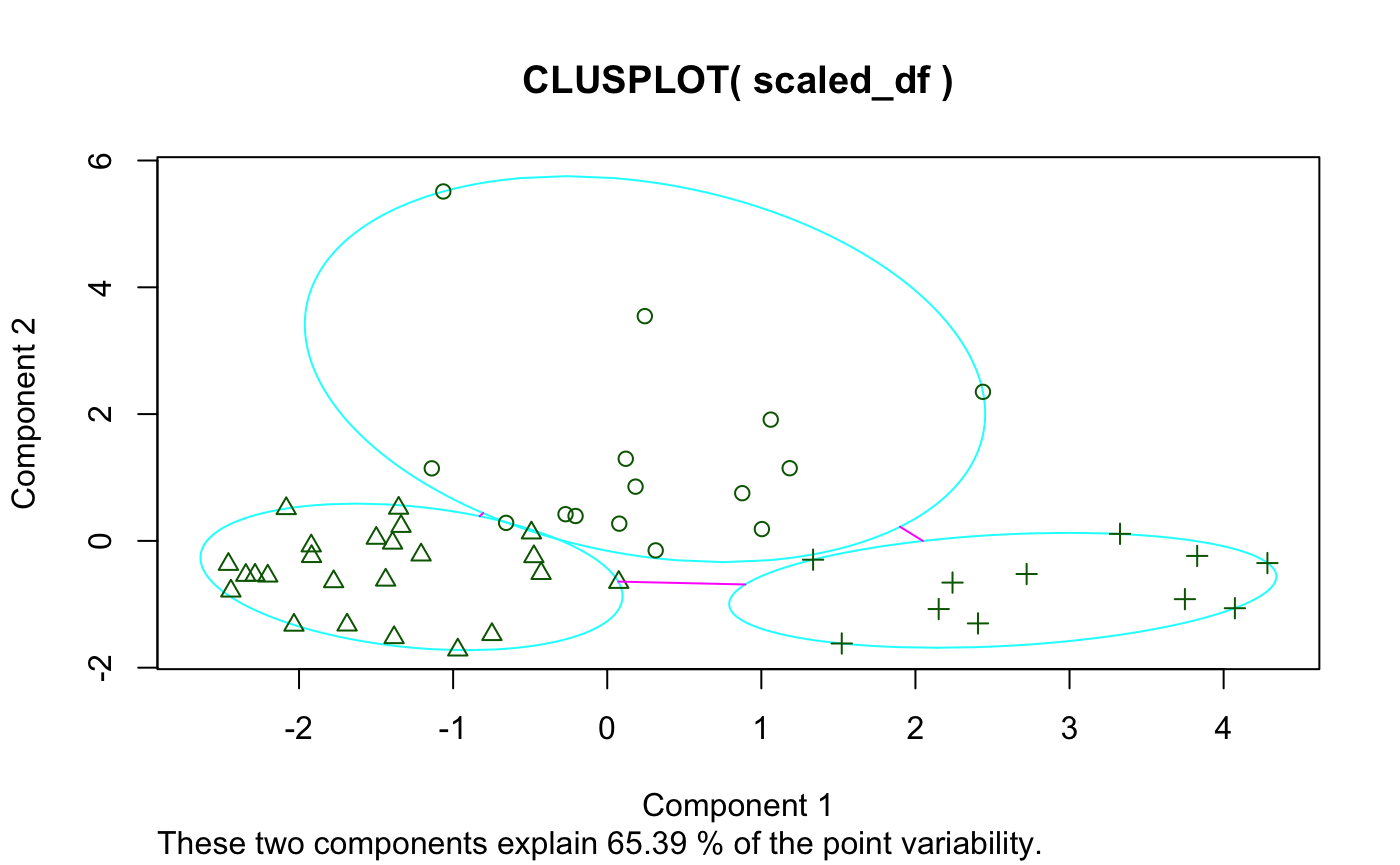
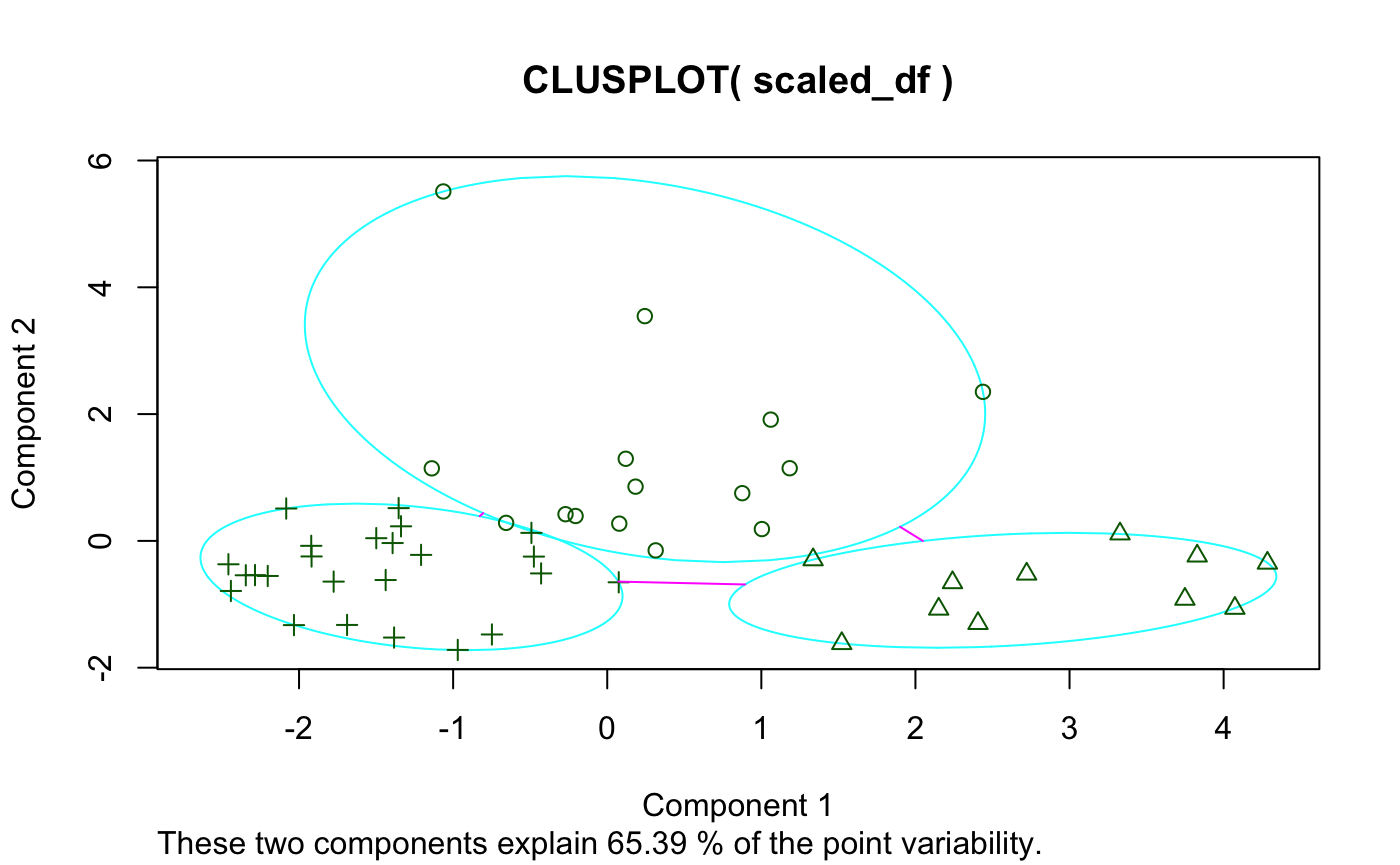
remove junk

diff --git a/docs/articles/creating_the_package.html b/docs/articles/creating_the_package.html
@@ -84,9 +84,7 @@
   <div class="col-md-9 contents">
     <div class="page-header toc-ignore">
       <h1>Developing A Dynamic Visualization Tool in R</h1>
-                        <h4 class="author">McKay Davis</h4>
             
-            <h4 class="date">6/18/2019</h4>
       
       <small class="dont-index">Source: <a href="https://github.com/McKayMDavis/klustR/blob/master/vignettes/creating_the_package.Rmd"><code>vignettes/creating_the_package.Rmd</code></a></small>
       <div class="hidden name"><code>creating_the_package.Rmd</code></div>
@@ -169,8 +167,8 @@
 <a href="#pcplot" class="anchor"></a>pcplot()</h3>
 <p>Here’s a basic example using the data and k-means analysis from above:</p>
 <div class="sourceCode" id="cb3"><pre class="sourceCode r"><code class="sourceCode r"><a class="sourceLine" id="cb3-1" data-line-number="1"><span class="kw"><a href="../reference/pcplot.html">pcplot</a></span>(scaled_df, clus, <span class="dt">pcGridlines =</span> <span class="ot">TRUE</span>, <span class="dt">barGridlines =</span> <span class="ot">TRUE</span>)</a></code></pre></div>
-<div id="htmlwidget-3ed312f48f8364680f10" style="width:700px;height:432.632880098888px;" class="pcplot html-widget"></div>
-<script type="application/json" data-for="htmlwidget-3ed312f48f8364680f10">{"x":{"PC":[{"PC1":-1.0531,"PC2":-5.4562,"PC3":4.2406,"PC4":0.5757,"PC5":0.1091,"PC6":-1.0013,"PC7":-0.3022,"PC8":-0.1185,"clusters":1,"_row":"Alaska"},{"PC1":0.8674,"PC2":-0.7451,"PC3":0.0773,"PC4":1.7188,"PC5":-0.5598,"PC6":0.305,"PC7":-0.1307,"PC8":-0.5246,"clusters":1,"_row":"Arizona"},{"PC1":0.2414,"PC2":-3.5095,"PC3":-2.8064,"PC4":-0.0704,"PC5":0.9686,"PC6":0.6513,"PC7":-0.0453,"PC8":-0.2574,"clusters":1,"_row":"California"},{"PC1":1.1721,"PC2":-1.1347,"PC3":-1.2818,"PC4":0.4885,"PC5":-0.6765,"PC6":0.3411,"PC7":-0.4111,"PC8":0.2573,"clusters":1,"_row":"Florida"},{"PC1":0.119,"PC2":-1.2824,"PC3":-0.8039,"PC4":-1.583,"PC5":-0.3341,"PC6":-0.045,"PC7":0.1351,"PC8":0.1505,"clusters":1,"_row":"Illinois"},{"PC1":-0.2034,"PC2":-0.3888,"PC3":-0.3392,"PC4":-0.662,"PC5":-1.4677,"PC6":-0.2156,"PC7":-0.1917,"PC8":0.2076,"clusters":1,"_row":"Maryland"},{"PC1":0.1819,"PC2":-0.8471,"PC3":-0.5542,"PC4":-1.1828,"PC5":-0.0675,"PC6":0.2304,"PC7":0.2568,"PC8":0.549,"clusters":1,"_row":"Michigan"},{"PC1":0.3113,"PC2":0.1483,"PC3":0.0066,"PC4":-0.5539,"PC5":0.1788,"PC6":0.2178,"PC7":-0.4203,"PC8":0.6068,"clusters":1,"_row":"Missouri"},{"PC1":-1.1271,"PC2":-1.1329,"PC3":1.8906,"PC4":-1.5048,"PC5":-1.2397,"PC6":1.1012,"PC7":0.4495,"PC8":0.2445,"clusters":1,"_row":"Nevada"},{"PC1":-0.6496,"PC2":-0.2815,"PC3":-0.9739,"PC4":-0.6161,"PC5":-0.7808,"PC6":-0.7322,"PC7":0.0739,"PC8":-0.3949,"clusters":1,"_row":"New Jersey"},{"PC1":1.0503,"PC2":-1.8937,"PC3":-2.1978,"PC4":-1.267,"PC5":0.3492,"PC6":-0.0012,"PC7":0.4913,"PC8":-0.2434,"clusters":1,"_row":"New York"},{"PC1":-0.268,"PC2":-0.4169,"PC3":-1.0329,"PC4":-1.1476,"PC5":0.3496,"PC6":0.1472,"PC7":-0.0154,"PC8":-0.1172,"clusters":1,"_row":"Ohio"},{"PC1":0.0774,"PC2":-0.2694,"PC3":-1.0701,"PC4":-1.2895,"PC5":0.5881,"PC6":-0.1985,"PC7":-0.1143,"PC8":-0.5708,"clusters":1,"_row":"Pennsylvania"},{"PC1":2.4136,"PC2":-2.3274,"PC3":-0.286,"PC4":0.8041,"PC5":1.7255,"PC6":-0.5322,"PC7":0.0012,"PC8":0.1142,"clusters":1,"_row":"Texas"},{"PC1":0.9935,"PC2":-0.1846,"PC3":-0.2108,"PC4":-0.3244,"PC5":-0.672,"PC6":-0.3167,"PC7":-0.0738,"PC8":0.1248,"clusters":1,"_row":"Virginia"},{"PC1":-2.0622,"PC2":-0.5057,"PC3":0.5114,"PC4":-0.1099,"PC5":0.0023,"PC6":0.2662,"PC7":0.6441,"PC8":0.375,"clusters":2,"_row":"Colorado"},{"PC1":-1.8994,"PC2":0.243,"PC3":-0.6627,"PC4":0.1697,"PC5":-0.7891,"PC6":-1.0779,"PC7":0.5384,"PC8":-0.0735,"clusters":2,"_row":"Connecticut"},{"PC1":-0.4248,"PC2":0.5079,"PC3":0.2187,"PC4":-0.1927,"PC5":-1.3067,"PC6":0.1568,"PC7":-0.2915,"PC8":-0.2395,"clusters":2,"_row":"Delaware"},{"PC1":-0.487,"PC2":-0.1253,"PC3":-1.3773,"PC4":2.9502,"PC5":-1.0676,"PC6":-0.1752,"PC7":0.8077,"PC8":0.2635,"clusters":2,"_row":"Hawaii"},{"PC1":-1.4234,"PC2":0.6111,"PC3":0.4345,"PC4":0.4056,"PC5":0.4078,"PC6":0.6486,"PC7":-0.133,"PC8":0.2324,"clusters":2,"_row":"Idaho"},{"PC1":-0.4712,"PC2":0.2452,"PC3":-0.3015,"PC4":-0.6565,"PC5":-0.0453,"PC6":0.2317,"PC7":-0.22,"PC8":0.1725,"clusters":2,"_row":"Indiana"},{"PC1":-2.3218,"PC2":0.5369,"PC3":-0.2932,"PC4":0.2047,"PC5":0.2457,"PC6":-0.0931,"PC7":-0.1293,"PC8":-0.0202,"clusters":2,"_row":"Iowa"},{"PC1":-1.9015,"PC2":0.0772,"PC3":-0.1771,"PC4":0.6141,"PC5":0.1107,"PC6":0.135,"PC7":-0.1357,"PC8":0.3244,"clusters":2,"_row":"Kansas"},{"PC1":-0.9602,"PC2":1.7024,"PC3":0.7215,"PC4":-0.5453,"PC5":0.5047,"PC6":0.4812,"PC7":-0.254,"PC8":-0.7424,"clusters":2,"_row":"Maine"},{"PC1":-1.1959,"PC2":0.2187,"PC3":-1.0196,"PC4":0.2901,"PC5":-0.256,"PC6":-0.1604,"PC7":0.2617,"PC8":-0.5979,"clusters":2,"_row":"Massachusetts"},{"PC1":-2.4336,"PC2":0.3653,"PC3":-0.2724,"PC4":0.0674,"PC5":0.6285,"PC6":-0.4889,"PC7":0.0979,"PC8":0.1017,"clusters":2,"_row":"Minnesota"},{"PC1":-1.3789,"PC2":0.0335,"PC3":1.34,"PC4":-0.2449,"PC5":0.3493,"PC6":0.4125,"PC7":-0.3736,"PC8":-0.2748,"clusters":2,"_row":"Montana"},{"PC1":-2.181,"PC2":0.5477,"PC3":0.0558,"PC4":0.4559,"PC5":0.3521,"PC6":-0.0309,"PC7":-0.052,"PC8":0.0943,"clusters":2,"_row":"Nebraska"},{"PC1":-1.6713,"PC2":1.3124,"PC3":0.4379,"PC4":-0.4804,"PC5":-0.0523,"PC6":0.1716,"PC7":0.2748,"PC8":-0.3391,"clusters":2,"_row":"New Hampshire"},{"PC1":-2.4177,"PC2":0.7819,"PC3":0.277,"PC4":-0.1363,"PC5":0.0309,"PC6":-1.6549,"PC7":0.0577,"PC8":0.2465,"clusters":2,"_row":"North Dakota"},{"PC1":0.0739,"PC2":0.6466,"PC3":-0.0712,"PC4":0.6069,"PC5":0.409,"PC6":0.1815,"PC7":-0.3314,"PC8":0.1475,"clusters":2,"_row":"Oklahoma"},{"PC1":-1.3247,"PC2":-0.2277,"PC3":-0.499,"PC4":1.35,"PC5":-0.1885,"PC6":0.4581,"PC7":-0.9244,"PC8":0.0517,"clusters":2,"_row":"Oregon"},{"PC1":-0.7408,"PC2":1.4613,"PC3":-0.2278,"PC4":0.2969,"PC5":-0.2367,"PC6":-1.294,"PC7":-0.0066,"PC8":-0.1541,"clusters":2,"_row":"Rhode Island"},{"PC1":-2.0125,"PC2":1.3151,"PC3":0.5365,"PC4":-0.1574,"PC5":0.7507,"PC6":-0.347,"PC7":-0.3463,"PC8":-0.0199,"clusters":2,"_row":"South Dakota"},{"PC1":-2.2628,"PC2":0.5343,"PC3":0.2198,"PC4":0.8506,"PC5":0.769,"PC6":1.0624,"PC7":0.4879,"PC8":0.1707,"clusters":2,"_row":"Utah"},{"PC1":-1.3693,"PC2":1.5094,"PC3":0.4457,"PC4":-0.3591,"PC5":0.3101,"PC6":0.6265,"PC7":0.3484,"PC8":0.2776,"clusters":2,"_row":"Vermont"},{"PC1":-1.34,"PC2":-0.5115,"PC3":-0.8518,"PC4":1.2374,"PC5":-0.6537,"PC6":0.7635,"PC7":-0.8193,"PC8":-0.2779,"clusters":2,"_row":"Washington"},{"PC1":-1.7575,"PC2":0.6357,"PC3":-0.4254,"PC4":-0.1123,"PC5":0.6106,"PC6":-0.4145,"PC7":0.0089,"PC8":0.0411,"clusters":2,"_row":"Wisconsin"},{"PC1":-1.4838,"PC2":-0.0423,"PC3":1.3542,"PC4":-0.639,"PC5":-0.2961,"PC6":0.7642,"PC7":0.2241,"PC8":-0.1305,"clusters":2,"_row":"Wyoming"},{"PC1":3.7899,"PC2":0.2348,"PC3":0.2293,"PC4":0.3833,"PC5":-0.2476,"PC6":0.4341,"PC7":-0.0573,"PC8":0.5349,"clusters":3,"_row":"Alabama"},{"PC1":2.3818,"PC2":1.2883,"PC3":0.2228,"PC4":0.6232,"PC5":0.6475,"PC6":-0.2587,"PC7":-0.0339,"PC8":0.4877,"clusters":3,"_row":"Arkansas"},{"PC1":3.2942,"PC2":-0.11,"PC3":0.3871,"PC4":-0.4556,"PC5":-0.4766,"PC6":-0.105,"PC7":-0.0363,"PC8":0.2004,"clusters":3,"_row":"Georgia"},{"PC1":2.1294,"PC2":1.0643,"PC3":0.2517,"PC4":-0.3488,"PC5":0.3325,"PC6":-0.3937,"PC7":-0.1475,"PC8":0.564,"clusters":3,"_row":"Kentucky"},{"PC1":4.241,"PC2":0.3463,"PC3":0.2289,"PC4":0.8793,"PC5":-0.2271,"PC6":0.0436,"PC7":0.4417,"PC8":-0.3737,"clusters":3,"_row":"Louisiana"},{"PC1":4.0321,"PC2":1.0512,"PC3":0.9196,"PC4":0.1759,"PC5":0.15,"PC6":0.4225,"PC7":0.1161,"PC8":-0.4485,"clusters":3,"_row":"Mississippi"},{"PC1":1.3224,"PC2":0.2936,"PC3":1.362,"PC4":0.707,"PC5":0.7089,"PC6":0.2763,"PC7":1.1684,"PC8":-0.358,"clusters":3,"_row":"New Mexico"},{"PC1":2.6943,"PC2":0.5171,"PC3":0.1427,"PC4":-0.5606,"PC5":0.1082,"PC6":-0.4036,"PC7":-0.2148,"PC8":0.1034,"clusters":3,"_row":"North Carolina"},{"PC1":3.711,"PC2":0.9098,"PC3":0.7487,"PC4":-0.3158,"PC5":-0.3627,"PC6":-0.2615,"PC7":-0.0459,"PC8":-0.4527,"clusters":3,"_row":"South Carolina"},{"PC1":2.2181,"PC2":0.651,"PC3":-0.0168,"PC4":0.0027,"PC5":0.1447,"PC6":-0.1409,"PC7":-0.0747,"PC8":0.4191,"clusters":3,"_row":"Tennessee"},{"PC1":1.5066,"PC2":1.602,"PC3":0.4922,"PC4":-0.3421,"PC5":0.1618,"PC6":-0.1873,"PC7":-0.5531,"PC8":-0.3339,"clusters":3,"_row":"West Virginia"}],"PVE":[{"PVEs":0.4499,"_row":"PC1"},{"PVEs":0.204,"_row":"PC2"},{"PVEs":0.139,"_row":"PC3"},{"PVEs":0.0884,"_row":"PC4"},{"PVEs":0.0481,"_row":"PC5"},{"PVEs":0.0384,"_row":"PC6"},{"PVEs":0.0181,"_row":"PC7"},{"PVEs":0.0141,"_row":"PC8"}],"idxs":[1,2],"cont":[{"PC1":1.5984,"PC2":16.8818,"PC3":43.0763,"PC4":16.7597,"PC5":16.4792,"PC6":0.0114,"PC7":0.3864,"PC8":4.8069,"_row":"Population"},{"PC1":8.9299,"PC2":26.9339,"PC3":1.0072,"PC4":0.7823,"PC5":40.6517,"PC6":21.3232,"PC7":0.0083,"PC8":0.3635,"_row":"Income"},{"PC1":21.8714,"PC2":0.2806,"PC3":0.5027,"PC4":12.4488,"PC5":0.0012,"PC6":15.0091,"PC7":38.4152,"PC8":11.471,"_row":"Illiteracy"},{"PC1":16.9423,"PC2":0.6668,"PC3":12.9552,"PC4":19.5862,"PC5":10.6667,"PC6":4.7997,"PC7":6.5645,"PC8":27.8186,"_row":"Life Exp"},{"PC1":19.7364,"PC2":9.4218,"PC3":1.1765,"PC4":2.7423,"PC5":1.6402,"PC6":10.5753,"PC7":8.705,"PC8":46.0025,"_row":"Murder"},{"PC1":18.0357,"PC2":8.9261,"PC3":0.2471,"PC4":5.3627,"PC5":0.9853,"PC6":41.5569,"PC7":15.4464,"PC8":9.4398,"_row":"HS Grad"},{"PC1":12.7744,"PC2":2.3588,"PC3":14.9858,"PC4":38.2729,"PC5":4.7247,"PC6":4.5235,"PC7":22.2796,"PC8":0.0803,"_row":"Frost"},{"PC1":0.1115,"PC2":34.5303,"PC3":26.0493,"PC4":4.0451,"PC5":24.8509,"PC6":2.2011,"PC7":8.1945,"PC8":0.0174,"_row":"Area"}],"thresh":[12.5],"barColor":"steelblue","colorScheme":["schemeCategory10"],"labelSizes":{},"dotSize":null,"pcGridlines":true,"barGridlines":true},"evals":[],"jsHooks":[]}</script><p>Some things to note:</p>
+<div id="htmlwidget-f14a6b5d57db27cfb848" style="width:700px;height:432.632880098888px;" class="pcplot html-widget"></div>
+<script type="application/json" data-for="htmlwidget-f14a6b5d57db27cfb848">{"x":{"PC":[{"PC1":-1.0531,"PC2":-5.4562,"PC3":4.2406,"PC4":0.5757,"PC5":0.1091,"PC6":-1.0013,"PC7":-0.3022,"PC8":-0.1185,"clusters":1,"_row":"Alaska"},{"PC1":0.8674,"PC2":-0.7451,"PC3":0.0773,"PC4":1.7188,"PC5":-0.5598,"PC6":0.305,"PC7":-0.1307,"PC8":-0.5246,"clusters":1,"_row":"Arizona"},{"PC1":0.2414,"PC2":-3.5095,"PC3":-2.8064,"PC4":-0.0704,"PC5":0.9686,"PC6":0.6513,"PC7":-0.0453,"PC8":-0.2574,"clusters":1,"_row":"California"},{"PC1":1.1721,"PC2":-1.1347,"PC3":-1.2818,"PC4":0.4885,"PC5":-0.6765,"PC6":0.3411,"PC7":-0.4111,"PC8":0.2573,"clusters":1,"_row":"Florida"},{"PC1":0.119,"PC2":-1.2824,"PC3":-0.8039,"PC4":-1.583,"PC5":-0.3341,"PC6":-0.045,"PC7":0.1351,"PC8":0.1505,"clusters":1,"_row":"Illinois"},{"PC1":-0.2034,"PC2":-0.3888,"PC3":-0.3392,"PC4":-0.662,"PC5":-1.4677,"PC6":-0.2156,"PC7":-0.1917,"PC8":0.2076,"clusters":1,"_row":"Maryland"},{"PC1":0.1819,"PC2":-0.8471,"PC3":-0.5542,"PC4":-1.1828,"PC5":-0.0675,"PC6":0.2304,"PC7":0.2568,"PC8":0.549,"clusters":1,"_row":"Michigan"},{"PC1":0.3113,"PC2":0.1483,"PC3":0.0066,"PC4":-0.5539,"PC5":0.1788,"PC6":0.2178,"PC7":-0.4203,"PC8":0.6068,"clusters":1,"_row":"Missouri"},{"PC1":-1.1271,"PC2":-1.1329,"PC3":1.8906,"PC4":-1.5048,"PC5":-1.2397,"PC6":1.1012,"PC7":0.4495,"PC8":0.2445,"clusters":1,"_row":"Nevada"},{"PC1":-0.6496,"PC2":-0.2815,"PC3":-0.9739,"PC4":-0.6161,"PC5":-0.7808,"PC6":-0.7322,"PC7":0.0739,"PC8":-0.3949,"clusters":1,"_row":"New Jersey"},{"PC1":1.0503,"PC2":-1.8937,"PC3":-2.1978,"PC4":-1.267,"PC5":0.3492,"PC6":-0.0012,"PC7":0.4913,"PC8":-0.2434,"clusters":1,"_row":"New York"},{"PC1":-0.268,"PC2":-0.4169,"PC3":-1.0329,"PC4":-1.1476,"PC5":0.3496,"PC6":0.1472,"PC7":-0.0154,"PC8":-0.1172,"clusters":1,"_row":"Ohio"},{"PC1":0.0774,"PC2":-0.2694,"PC3":-1.0701,"PC4":-1.2895,"PC5":0.5881,"PC6":-0.1985,"PC7":-0.1143,"PC8":-0.5708,"clusters":1,"_row":"Pennsylvania"},{"PC1":2.4136,"PC2":-2.3274,"PC3":-0.286,"PC4":0.8041,"PC5":1.7255,"PC6":-0.5322,"PC7":0.0012,"PC8":0.1142,"clusters":1,"_row":"Texas"},{"PC1":0.9935,"PC2":-0.1846,"PC3":-0.2108,"PC4":-0.3244,"PC5":-0.672,"PC6":-0.3167,"PC7":-0.0738,"PC8":0.1248,"clusters":1,"_row":"Virginia"},{"PC1":3.7899,"PC2":0.2348,"PC3":0.2293,"PC4":0.3833,"PC5":-0.2476,"PC6":0.4341,"PC7":-0.0573,"PC8":0.5349,"clusters":2,"_row":"Alabama"},{"PC1":2.3818,"PC2":1.2883,"PC3":0.2228,"PC4":0.6232,"PC5":0.6475,"PC6":-0.2587,"PC7":-0.0339,"PC8":0.4877,"clusters":2,"_row":"Arkansas"},{"PC1":3.2942,"PC2":-0.11,"PC3":0.3871,"PC4":-0.4556,"PC5":-0.4766,"PC6":-0.105,"PC7":-0.0363,"PC8":0.2004,"clusters":2,"_row":"Georgia"},{"PC1":2.1294,"PC2":1.0643,"PC3":0.2517,"PC4":-0.3488,"PC5":0.3325,"PC6":-0.3937,"PC7":-0.1475,"PC8":0.564,"clusters":2,"_row":"Kentucky"},{"PC1":4.241,"PC2":0.3463,"PC3":0.2289,"PC4":0.8793,"PC5":-0.2271,"PC6":0.0436,"PC7":0.4417,"PC8":-0.3737,"clusters":2,"_row":"Louisiana"},{"PC1":4.0321,"PC2":1.0512,"PC3":0.9196,"PC4":0.1759,"PC5":0.15,"PC6":0.4225,"PC7":0.1161,"PC8":-0.4485,"clusters":2,"_row":"Mississippi"},{"PC1":1.3224,"PC2":0.2936,"PC3":1.362,"PC4":0.707,"PC5":0.7089,"PC6":0.2763,"PC7":1.1684,"PC8":-0.358,"clusters":2,"_row":"New Mexico"},{"PC1":2.6943,"PC2":0.5171,"PC3":0.1427,"PC4":-0.5606,"PC5":0.1082,"PC6":-0.4036,"PC7":-0.2148,"PC8":0.1034,"clusters":2,"_row":"North Carolina"},{"PC1":3.711,"PC2":0.9098,"PC3":0.7487,"PC4":-0.3158,"PC5":-0.3627,"PC6":-0.2615,"PC7":-0.0459,"PC8":-0.4527,"clusters":2,"_row":"South Carolina"},{"PC1":2.2181,"PC2":0.651,"PC3":-0.0168,"PC4":0.0027,"PC5":0.1447,"PC6":-0.1409,"PC7":-0.0747,"PC8":0.4191,"clusters":2,"_row":"Tennessee"},{"PC1":1.5066,"PC2":1.602,"PC3":0.4922,"PC4":-0.3421,"PC5":0.1618,"PC6":-0.1873,"PC7":-0.5531,"PC8":-0.3339,"clusters":2,"_row":"West Virginia"},{"PC1":-2.0622,"PC2":-0.5057,"PC3":0.5114,"PC4":-0.1099,"PC5":0.0023,"PC6":0.2662,"PC7":0.6441,"PC8":0.375,"clusters":3,"_row":"Colorado"},{"PC1":-1.8994,"PC2":0.243,"PC3":-0.6627,"PC4":0.1697,"PC5":-0.7891,"PC6":-1.0779,"PC7":0.5384,"PC8":-0.0735,"clusters":3,"_row":"Connecticut"},{"PC1":-0.4248,"PC2":0.5079,"PC3":0.2187,"PC4":-0.1927,"PC5":-1.3067,"PC6":0.1568,"PC7":-0.2915,"PC8":-0.2395,"clusters":3,"_row":"Delaware"},{"PC1":-0.487,"PC2":-0.1253,"PC3":-1.3773,"PC4":2.9502,"PC5":-1.0676,"PC6":-0.1752,"PC7":0.8077,"PC8":0.2635,"clusters":3,"_row":"Hawaii"},{"PC1":-1.4234,"PC2":0.6111,"PC3":0.4345,"PC4":0.4056,"PC5":0.4078,"PC6":0.6486,"PC7":-0.133,"PC8":0.2324,"clusters":3,"_row":"Idaho"},{"PC1":-0.4712,"PC2":0.2452,"PC3":-0.3015,"PC4":-0.6565,"PC5":-0.0453,"PC6":0.2317,"PC7":-0.22,"PC8":0.1725,"clusters":3,"_row":"Indiana"},{"PC1":-2.3218,"PC2":0.5369,"PC3":-0.2932,"PC4":0.2047,"PC5":0.2457,"PC6":-0.0931,"PC7":-0.1293,"PC8":-0.0202,"clusters":3,"_row":"Iowa"},{"PC1":-1.9015,"PC2":0.0772,"PC3":-0.1771,"PC4":0.6141,"PC5":0.1107,"PC6":0.135,"PC7":-0.1357,"PC8":0.3244,"clusters":3,"_row":"Kansas"},{"PC1":-0.9602,"PC2":1.7024,"PC3":0.7215,"PC4":-0.5453,"PC5":0.5047,"PC6":0.4812,"PC7":-0.254,"PC8":-0.7424,"clusters":3,"_row":"Maine"},{"PC1":-1.1959,"PC2":0.2187,"PC3":-1.0196,"PC4":0.2901,"PC5":-0.256,"PC6":-0.1604,"PC7":0.2617,"PC8":-0.5979,"clusters":3,"_row":"Massachusetts"},{"PC1":-2.4336,"PC2":0.3653,"PC3":-0.2724,"PC4":0.0674,"PC5":0.6285,"PC6":-0.4889,"PC7":0.0979,"PC8":0.1017,"clusters":3,"_row":"Minnesota"},{"PC1":-1.3789,"PC2":0.0335,"PC3":1.34,"PC4":-0.2449,"PC5":0.3493,"PC6":0.4125,"PC7":-0.3736,"PC8":-0.2748,"clusters":3,"_row":"Montana"},{"PC1":-2.181,"PC2":0.5477,"PC3":0.0558,"PC4":0.4559,"PC5":0.3521,"PC6":-0.0309,"PC7":-0.052,"PC8":0.0943,"clusters":3,"_row":"Nebraska"},{"PC1":-1.6713,"PC2":1.3124,"PC3":0.4379,"PC4":-0.4804,"PC5":-0.0523,"PC6":0.1716,"PC7":0.2748,"PC8":-0.3391,"clusters":3,"_row":"New Hampshire"},{"PC1":-2.4177,"PC2":0.7819,"PC3":0.277,"PC4":-0.1363,"PC5":0.0309,"PC6":-1.6549,"PC7":0.0577,"PC8":0.2465,"clusters":3,"_row":"North Dakota"},{"PC1":0.0739,"PC2":0.6466,"PC3":-0.0712,"PC4":0.6069,"PC5":0.409,"PC6":0.1815,"PC7":-0.3314,"PC8":0.1475,"clusters":3,"_row":"Oklahoma"},{"PC1":-1.3247,"PC2":-0.2277,"PC3":-0.499,"PC4":1.35,"PC5":-0.1885,"PC6":0.4581,"PC7":-0.9244,"PC8":0.0517,"clusters":3,"_row":"Oregon"},{"PC1":-0.7408,"PC2":1.4613,"PC3":-0.2278,"PC4":0.2969,"PC5":-0.2367,"PC6":-1.294,"PC7":-0.0066,"PC8":-0.1541,"clusters":3,"_row":"Rhode Island"},{"PC1":-2.0125,"PC2":1.3151,"PC3":0.5365,"PC4":-0.1574,"PC5":0.7507,"PC6":-0.347,"PC7":-0.3463,"PC8":-0.0199,"clusters":3,"_row":"South Dakota"},{"PC1":-2.2628,"PC2":0.5343,"PC3":0.2198,"PC4":0.8506,"PC5":0.769,"PC6":1.0624,"PC7":0.4879,"PC8":0.1707,"clusters":3,"_row":"Utah"},{"PC1":-1.3693,"PC2":1.5094,"PC3":0.4457,"PC4":-0.3591,"PC5":0.3101,"PC6":0.6265,"PC7":0.3484,"PC8":0.2776,"clusters":3,"_row":"Vermont"},{"PC1":-1.34,"PC2":-0.5115,"PC3":-0.8518,"PC4":1.2374,"PC5":-0.6537,"PC6":0.7635,"PC7":-0.8193,"PC8":-0.2779,"clusters":3,"_row":"Washington"},{"PC1":-1.7575,"PC2":0.6357,"PC3":-0.4254,"PC4":-0.1123,"PC5":0.6106,"PC6":-0.4145,"PC7":0.0089,"PC8":0.0411,"clusters":3,"_row":"Wisconsin"},{"PC1":-1.4838,"PC2":-0.0423,"PC3":1.3542,"PC4":-0.639,"PC5":-0.2961,"PC6":0.7642,"PC7":0.2241,"PC8":-0.1305,"clusters":3,"_row":"Wyoming"}],"PVE":[{"PVEs":0.4499,"_row":"PC1"},{"PVEs":0.204,"_row":"PC2"},{"PVEs":0.139,"_row":"PC3"},{"PVEs":0.0884,"_row":"PC4"},{"PVEs":0.0481,"_row":"PC5"},{"PVEs":0.0384,"_row":"PC6"},{"PVEs":0.0181,"_row":"PC7"},{"PVEs":0.0141,"_row":"PC8"}],"idxs":[1,2],"cont":[{"PC1":1.5984,"PC2":16.8818,"PC3":43.0763,"PC4":16.7597,"PC5":16.4792,"PC6":0.0114,"PC7":0.3864,"PC8":4.8069,"_row":"Population"},{"PC1":8.9299,"PC2":26.9339,"PC3":1.0072,"PC4":0.7823,"PC5":40.6517,"PC6":21.3232,"PC7":0.0083,"PC8":0.3635,"_row":"Income"},{"PC1":21.8714,"PC2":0.2806,"PC3":0.5027,"PC4":12.4488,"PC5":0.0012,"PC6":15.0091,"PC7":38.4152,"PC8":11.471,"_row":"Illiteracy"},{"PC1":16.9423,"PC2":0.6668,"PC3":12.9552,"PC4":19.5862,"PC5":10.6667,"PC6":4.7997,"PC7":6.5645,"PC8":27.8186,"_row":"Life Exp"},{"PC1":19.7364,"PC2":9.4218,"PC3":1.1765,"PC4":2.7423,"PC5":1.6402,"PC6":10.5753,"PC7":8.705,"PC8":46.0025,"_row":"Murder"},{"PC1":18.0357,"PC2":8.9261,"PC3":0.2471,"PC4":5.3627,"PC5":0.9853,"PC6":41.5569,"PC7":15.4464,"PC8":9.4398,"_row":"HS Grad"},{"PC1":12.7744,"PC2":2.3588,"PC3":14.9858,"PC4":38.2729,"PC5":4.7247,"PC6":4.5235,"PC7":22.2796,"PC8":0.0803,"_row":"Frost"},{"PC1":0.1115,"PC2":34.5303,"PC3":26.0493,"PC4":4.0451,"PC5":24.8509,"PC6":2.2011,"PC7":8.1945,"PC8":0.0174,"_row":"Area"}],"thresh":[12.5],"barColor":"steelblue","colorScheme":["schemeCategory10"],"labelSizes":{},"dotSize":null,"pcGridlines":true,"barGridlines":true},"evals":[],"jsHooks":[]}</script><p>Some things to note:</p>
 <ul>
 <li>Hovering over a point displays its label</li>
 <li>Axis labels show the percent contribution individually</li>
@@ -185,8 +183,8 @@
 <p>Another great option for cluster visualization is the parallel coordinates plot.</p>
 <p>Here’s an example:</p>
 <div class="sourceCode" id="cb4"><pre class="sourceCode r"><code class="sourceCode r"><a class="sourceLine" id="cb4-1" data-line-number="1"><span class="kw"><a href="../reference/pacoplot.html">pacoplot</a></span>(state.x77, clus)</a></code></pre></div>
-<div id="htmlwidget-f604f67b3fafb03cb750" style="width:700px;height:432.632880098888px;" class="pacoplot html-widget"></div>
-<script type="application/json" data-for="htmlwidget-f604f67b3fafb03cb750">{"x":{"data":[{"Population":365,"Income":6315,"Illiteracy":1.5,"Life.Exp":69.31,"Murder":11.3,"HS.Grad":66.7,"Frost":152,"Area":566432,"clusters":1,"_row":"Alaska"},{"Population":2212,"Income":4530,"Illiteracy":1.8,"Life.Exp":70.55,"Murder":7.8,"HS.Grad":58.1,"Frost":15,"Area":113417,"clusters":1,"_row":"Arizona"},{"Population":21198,"Income":5114,"Illiteracy":1.1,"Life.Exp":71.71,"Murder":10.3,"HS.Grad":62.6,"Frost":20,"Area":156361,"clusters":1,"_row":"California"},{"Population":8277,"Income":4815,"Illiteracy":1.3,"Life.Exp":70.66,"Murder":10.7,"HS.Grad":52.6,"Frost":11,"Area":54090,"clusters":1,"_row":"Florida"},{"Population":11197,"Income":5107,"Illiteracy":0.9,"Life.Exp":70.14,"Murder":10.3,"HS.Grad":52.6,"Frost":127,"Area":55748,"clusters":1,"_row":"Illinois"},{"Population":4122,"Income":5299,"Illiteracy":0.9,"Life.Exp":70.22,"Murder":8.5,"HS.Grad":52.3,"Frost":101,"Area":9891,"clusters":1,"_row":"Maryland"},{"Population":9111,"Income":4751,"Illiteracy":0.9,"Life.Exp":70.63,"Murder":11.1,"HS.Grad":52.8,"Frost":125,"Area":56817,"clusters":1,"_row":"Michigan"},{"Population":4767,"Income":4254,"Illiteracy":0.8,"Life.Exp":70.69,"Murder":9.3,"HS.Grad":48.8,"Frost":108,"Area":68995,"clusters":1,"_row":"Missouri"},{"Population":590,"Income":5149,"Illiteracy":0.5,"Life.Exp":69.03,"Murder":11.5,"HS.Grad":65.2,"Frost":188,"Area":109889,"clusters":1,"_row":"Nevada"},{"Population":7333,"Income":5237,"Illiteracy":1.1,"Life.Exp":70.93,"Murder":5.2,"HS.Grad":52.5,"Frost":115,"Area":7521,"clusters":1,"_row":"New Jersey"},{"Population":18076,"Income":4903,"Illiteracy":1.4,"Life.Exp":70.55,"Murder":10.9,"HS.Grad":52.7,"Frost":82,"Area":47831,"clusters":1,"_row":"New York"},{"Population":10735,"Income":4561,"Illiteracy":0.8,"Life.Exp":70.82,"Murder":7.4,"HS.Grad":53.2,"Frost":124,"Area":40975,"clusters":1,"_row":"Ohio"},{"Population":11860,"Income":4449,"Illiteracy":1,"Life.Exp":70.43,"Murder":6.1,"HS.Grad":50.2,"Frost":126,"Area":44966,"clusters":1,"_row":"Pennsylvania"},{"Population":12237,"Income":4188,"Illiteracy":2.2,"Life.Exp":70.9,"Murder":12.2,"HS.Grad":47.4,"Frost":35,"Area":262134,"clusters":1,"_row":"Texas"},{"Population":4981,"Income":4701,"Illiteracy":1.4,"Life.Exp":70.08,"Murder":9.5,"HS.Grad":47.8,"Frost":85,"Area":39780,"clusters":1,"_row":"Virginia"},{"Population":2541,"Income":4884,"Illiteracy":0.7,"Life.Exp":72.06,"Murder":6.8,"HS.Grad":63.9,"Frost":166,"Area":103766,"clusters":2,"_row":"Colorado"},{"Population":3100,"Income":5348,"Illiteracy":1.1,"Life.Exp":72.48,"Murder":3.1,"HS.Grad":56,"Frost":139,"Area":4862,"clusters":2,"_row":"Connecticut"},{"Population":579,"Income":4809,"Illiteracy":0.9,"Life.Exp":70.06,"Murder":6.2,"HS.Grad":54.6,"Frost":103,"Area":1982,"clusters":2,"_row":"Delaware"},{"Population":868,"Income":4963,"Illiteracy":1.9,"Life.Exp":73.6,"Murder":6.2,"HS.Grad":61.9,"Frost":0,"Area":6425,"clusters":2,"_row":"Hawaii"},{"Population":813,"Income":4119,"Illiteracy":0.6,"Life.Exp":71.87,"Murder":5.3,"HS.Grad":59.5,"Frost":126,"Area":82677,"clusters":2,"_row":"Idaho"},{"Population":5313,"Income":4458,"Illiteracy":0.7,"Life.Exp":70.88,"Murder":7.1,"HS.Grad":52.9,"Frost":122,"Area":36097,"clusters":2,"_row":"Indiana"},{"Population":2861,"Income":4628,"Illiteracy":0.5,"Life.Exp":72.56,"Murder":2.3,"HS.Grad":59,"Frost":140,"Area":55941,"clusters":2,"_row":"Iowa"},{"Population":2280,"Income":4669,"Illiteracy":0.6,"Life.Exp":72.58,"Murder":4.5,"HS.Grad":59.9,"Frost":114,"Area":81787,"clusters":2,"_row":"Kansas"},{"Population":1058,"Income":3694,"Illiteracy":0.7,"Life.Exp":70.39,"Murder":2.7,"HS.Grad":54.7,"Frost":161,"Area":30920,"clusters":2,"_row":"Maine"},{"Population":5814,"Income":4755,"Illiteracy":1.1,"Life.Exp":71.83,"Murder":3.3,"HS.Grad":58.5,"Frost":103,"Area":7826,"clusters":2,"_row":"Massachusetts"},{"Population":3921,"Income":4675,"Illiteracy":0.6,"Life.Exp":72.96,"Murder":2.3,"HS.Grad":57.6,"Frost":160,"Area":79289,"clusters":2,"_row":"Minnesota"},{"Population":746,"Income":4347,"Illiteracy":0.6,"Life.Exp":70.56,"Murder":5,"HS.Grad":59.2,"Frost":155,"Area":145587,"clusters":2,"_row":"Montana"},{"Population":1544,"Income":4508,"Illiteracy":0.6,"Life.Exp":72.6,"Murder":2.9,"HS.Grad":59.3,"Frost":139,"Area":76483,"clusters":2,"_row":"Nebraska"},{"Population":812,"Income":4281,"Illiteracy":0.7,"Life.Exp":71.23,"Murder":3.3,"HS.Grad":57.6,"Frost":174,"Area":9027,"clusters":2,"_row":"New Hampshire"},{"Population":637,"Income":5087,"Illiteracy":0.8,"Life.Exp":72.78,"Murder":1.4,"HS.Grad":50.3,"Frost":186,"Area":69273,"clusters":2,"_row":"North Dakota"},{"Population":2715,"Income":3983,"Illiteracy":1.1,"Life.Exp":71.42,"Murder":6.4,"HS.Grad":51.6,"Frost":82,"Area":68782,"clusters":2,"_row":"Oklahoma"},{"Population":2284,"Income":4660,"Illiteracy":0.6,"Life.Exp":72.13,"Murder":4.2,"HS.Grad":60,"Frost":44,"Area":96184,"clusters":2,"_row":"Oregon"},{"Population":931,"Income":4558,"Illiteracy":1.3,"Life.Exp":71.9,"Murder":2.4,"HS.Grad":46.4,"Frost":127,"Area":1049,"clusters":2,"_row":"Rhode Island"},{"Population":681,"Income":4167,"Illiteracy":0.5,"Life.Exp":72.08,"Murder":1.7,"HS.Grad":53.3,"Frost":172,"Area":75955,"clusters":2,"_row":"South Dakota"},{"Population":1203,"Income":4022,"Illiteracy":0.6,"Life.Exp":72.9,"Murder":4.5,"HS.Grad":67.3,"Frost":137,"Area":82096,"clusters":2,"_row":"Utah"},{"Population":472,"Income":3907,"Illiteracy":0.6,"Life.Exp":71.64,"Murder":5.5,"HS.Grad":57.1,"Frost":168,"Area":9267,"clusters":2,"_row":"Vermont"},{"Population":3559,"Income":4864,"Illiteracy":0.6,"Life.Exp":71.72,"Murder":4.3,"HS.Grad":63.5,"Frost":32,"Area":66570,"clusters":2,"_row":"Washington"},{"Population":4589,"Income":4468,"Illiteracy":0.7,"Life.Exp":72.48,"Murder":3,"HS.Grad":54.5,"Frost":149,"Area":54464,"clusters":2,"_row":"Wisconsin"},{"Population":376,"Income":4566,"Illiteracy":0.6,"Life.Exp":70.29,"Murder":6.9,"HS.Grad":62.9,"Frost":173,"Area":97203,"clusters":2,"_row":"Wyoming"},{"Population":3615,"Income":3624,"Illiteracy":2.1,"Life.Exp":69.05,"Murder":15.1,"HS.Grad":41.3,"Frost":20,"Area":50708,"clusters":3,"_row":"Alabama"},{"Population":2110,"Income":3378,"Illiteracy":1.9,"Life.Exp":70.66,"Murder":10.1,"HS.Grad":39.9,"Frost":65,"Area":51945,"clusters":3,"_row":"Arkansas"},{"Population":4931,"Income":4091,"Illiteracy":2,"Life.Exp":68.54,"Murder":13.9,"HS.Grad":40.6,"Frost":60,"Area":58073,"clusters":3,"_row":"Georgia"},{"Population":3387,"Income":3712,"Illiteracy":1.6,"Life.Exp":70.1,"Murder":10.6,"HS.Grad":38.5,"Frost":95,"Area":39650,"clusters":3,"_row":"Kentucky"},{"Population":3806,"Income":3545,"Illiteracy":2.8,"Life.Exp":68.76,"Murder":13.2,"HS.Grad":42.2,"Frost":12,"Area":44930,"clusters":3,"_row":"Louisiana"},{"Population":2341,"Income":3098,"Illiteracy":2.4,"Life.Exp":68.09,"Murder":12.5,"HS.Grad":41,"Frost":50,"Area":47296,"clusters":3,"_row":"Mississippi"},{"Population":1144,"Income":3601,"Illiteracy":2.2,"Life.Exp":70.32,"Murder":9.7,"HS.Grad":55.2,"Frost":120,"Area":121412,"clusters":3,"_row":"New Mexico"},{"Population":5441,"Income":3875,"Illiteracy":1.8,"Life.Exp":69.21,"Murder":11.1,"HS.Grad":38.5,"Frost":80,"Area":48798,"clusters":3,"_row":"North Carolina"},{"Population":2816,"Income":3635,"Illiteracy":2.3,"Life.Exp":67.96,"Murder":11.6,"HS.Grad":37.8,"Frost":65,"Area":30225,"clusters":3,"_row":"South Carolina"},{"Population":4173,"Income":3821,"Illiteracy":1.7,"Life.Exp":70.11,"Murder":11,"HS.Grad":41.8,"Frost":70,"Area":41328,"clusters":3,"_row":"Tennessee"},{"Population":1799,"Income":3617,"Illiteracy":1.4,"Life.Exp":69.48,"Murder":6.7,"HS.Grad":41.6,"Frost":100,"Area":24070,"clusters":3,"_row":"West Virginia"}],"avData":[{"clusters":1,"Population":8277,"Income":4815,"Illiteracy":1.1,"Life.Exp":70.55,"Murder":10.3,"HS.Grad":52.6,"Frost":108,"Area":55748},{"clusters":2,"Population":1373.5,"Income":4562,"Illiteracy":0.65,"Life.Exp":71.98,"Murder":4.25,"HS.Grad":58.05,"Frost":139,"Area":67676},{"clusters":3,"Population":3387,"Income":3624,"Illiteracy":2,"Life.Exp":69.21,"Murder":11.1,"HS.Grad":41,"Frost":65,"Area":47296}],"qData":[{"clusters":1,"dimensions":"Population","quartile":4444.5,"_row":"1.Population"},{"clusters":2,"dimensions":"Population","quartile":795.5,"_row":"2.Population"},{"clusters":3,"dimensions":"Population","quartile":2225.5,"_row":"3.Population"},{"clusters":1,"dimensions":"Income","quartile":4545.5,"_row":"1.Income"},{"clusters":2,"dimensions":"Income","quartile":4252.5,"_row":"2.Income"},{"clusters":3,"dimensions":"Income","quartile":3573,"_row":"3.Income"},{"clusters":1,"dimensions":"Illiteracy","quartile":0.9,"_row":"1.Illiteracy"},{"clusters":2,"dimensions":"Illiteracy","quartile":0.6,"_row":"2.Illiteracy"},{"clusters":3,"dimensions":"Illiteracy","quartile":1.75,"_row":"3.Illiteracy"},{"clusters":1,"dimensions":"Life.Exp","quartile":70.18,"_row":"1.Life.Exp"},{"clusters":2,"dimensions":"Life.Exp","quartile":71.3725,"_row":"2.Life.Exp"},{"clusters":3,"dimensions":"Life.Exp","quartile":68.65,"_row":"3.Life.Exp"},{"clusters":1,"dimensions":"Murder","quartile":8.15,"_row":"1.Murder"},{"clusters":2,"dimensions":"Murder","quartile":2.85,"_row":"2.Murder"},{"clusters":3,"dimensions":"Murder","quartile":10.35,"_row":"3.Murder"},{"clusters":1,"dimensions":"HS.Grad","quartile":51.25,"_row":"1.HS.Grad"},{"clusters":2,"dimensions":"HS.Grad","quartile":54.575,"_row":"2.HS.Grad"},{"clusters":3,"dimensions":"HS.Grad","quartile":39.2,"_row":"3.HS.Grad"},{"clusters":1,"dimensions":"Frost","quartile":58.5,"_row":"1.Frost"},{"clusters":2,"dimensions":"Frost","quartile":111.25,"_row":"2.Frost"},{"clusters":3,"dimensions":"Frost","quartile":55,"_row":"3.Frost"},{"clusters":1,"dimensions":"Area","quartile":42970.5,"_row":"1.Area"},{"clusters":2,"dimensions":"Area","quartile":9207,"_row":"2.Area"},{"clusters":3,"dimensions":"Area","quartile":40489,"_row":"3.Area"},{"clusters":1,"dimensions":"Population","quartile":11528.5,"_row":"1.Population1"},{"clusters":2,"dimensions":"Population","quartile":2920.75,"_row":"2.Population1"},{"clusters":3,"dimensions":"Population","quartile":3989.5,"_row":"3.Population1"},{"clusters":1,"dimensions":"Income","quartile":5131.5,"_row":"1.Income1"},{"clusters":2,"dimensions":"Income","quartile":4768.5,"_row":"2.Income1"},{"clusters":3,"dimensions":"Income","quartile":3766.5,"_row":"3.Income1"},{"clusters":1,"dimensions":"Illiteracy","quartile":1.4,"_row":"1.Illiteracy1"},{"clusters":2,"dimensions":"Illiteracy","quartile":0.825,"_row":"2.Illiteracy1"},{"clusters":3,"dimensions":"Illiteracy","quartile":2.25,"_row":"3.Illiteracy1"},{"clusters":1,"dimensions":"Life.Exp","quartile":70.755,"_row":"1.Life.Exp1"},{"clusters":2,"dimensions":"Life.Exp","quartile":72.565,"_row":"2.Life.Exp1"},{"clusters":3,"dimensions":"Life.Exp","quartile":70.105,"_row":"3.Life.Exp1"},{"clusters":1,"dimensions":"Murder","quartile":11,"_row":"1.Murder1"},{"clusters":2,"dimensions":"Murder","quartile":5.675,"_row":"2.Murder1"},{"clusters":3,"dimensions":"Murder","quartile":12.85,"_row":"3.Murder1"},{"clusters":1,"dimensions":"HS.Grad","quartile":55.65,"_row":"1.HS.Grad1"},{"clusters":2,"dimensions":"HS.Grad","quartile":59.925,"_row":"2.HS.Grad1"},{"clusters":3,"dimensions":"HS.Grad","quartile":41.7,"_row":"3.HS.Grad1"},{"clusters":1,"dimensions":"Frost","quartile":125.5,"_row":"1.Frost1"},{"clusters":2,"dimensions":"Frost","quartile":162.25,"_row":"2.Frost1"},{"clusters":3,"dimensions":"Frost","quartile":87.5,"_row":"3.Frost1"},{"clusters":1,"dimensions":"Area","quartile":111653,"_row":"1.Area1"},{"clusters":2,"dimensions":"Area","quartile":81864.25,"_row":"2.Area1"},{"clusters":3,"dimensions":"Area","quartile":51326.5,"_row":"3.Area1"}],"qsData":[{"clusters":1,"dimensions":"Population","q1":4444.5,"q3":11528.5,"_row":"1.Population"},{"clusters":2,"dimensions":"Population","q1":795.5,"q3":2920.75,"_row":"2.Population"},{"clusters":3,"dimensions":"Population","q1":2225.5,"q3":3989.5,"_row":"3.Population"},{"clusters":1,"dimensions":"Income","q1":4545.5,"q3":5131.5,"_row":"1.Income"},{"clusters":2,"dimensions":"Income","q1":4252.5,"q3":4768.5,"_row":"2.Income"},{"clusters":3,"dimensions":"Income","q1":3573,"q3":3766.5,"_row":"3.Income"},{"clusters":1,"dimensions":"Illiteracy","q1":0.9,"q3":1.4,"_row":"1.Illiteracy"},{"clusters":2,"dimensions":"Illiteracy","q1":0.6,"q3":0.825,"_row":"2.Illiteracy"},{"clusters":3,"dimensions":"Illiteracy","q1":1.75,"q3":2.25,"_row":"3.Illiteracy"},{"clusters":1,"dimensions":"Life.Exp","q1":70.18,"q3":70.755,"_row":"1.Life.Exp"},{"clusters":2,"dimensions":"Life.Exp","q1":71.3725,"q3":72.565,"_row":"2.Life.Exp"},{"clusters":3,"dimensions":"Life.Exp","q1":68.65,"q3":70.105,"_row":"3.Life.Exp"},{"clusters":1,"dimensions":"Murder","q1":8.15,"q3":11,"_row":"1.Murder"},{"clusters":2,"dimensions":"Murder","q1":2.85,"q3":5.675,"_row":"2.Murder"},{"clusters":3,"dimensions":"Murder","q1":10.35,"q3":12.85,"_row":"3.Murder"},{"clusters":1,"dimensions":"HS.Grad","q1":51.25,"q3":55.65,"_row":"1.HS.Grad"},{"clusters":2,"dimensions":"HS.Grad","q1":54.575,"q3":59.925,"_row":"2.HS.Grad"},{"clusters":3,"dimensions":"HS.Grad","q1":39.2,"q3":41.7,"_row":"3.HS.Grad"},{"clusters":1,"dimensions":"Frost","q1":58.5,"q3":125.5,"_row":"1.Frost"},{"clusters":2,"dimensions":"Frost","q1":111.25,"q3":162.25,"_row":"2.Frost"},{"clusters":3,"dimensions":"Frost","q1":55,"q3":87.5,"_row":"3.Frost"},{"clusters":1,"dimensions":"Area","q1":42970.5,"q3":111653,"_row":"1.Area"},{"clusters":2,"dimensions":"Area","q1":9207,"q3":81864.25,"_row":"2.Area"},{"clusters":3,"dimensions":"Area","q1":40489,"q3":51326.5,"_row":"3.Area"}],"colorScheme":["schemeCategory10"],"labelSizes":{},"lineSize":null},"evals":[],"jsHooks":[]}</script><p>Some things to note:</p>
+<div id="htmlwidget-13f90d898e264011d274" style="width:700px;height:432.632880098888px;" class="pacoplot html-widget"></div>
+<script type="application/json" data-for="htmlwidget-13f90d898e264011d274">{"x":{"data":[{"Population":365,"Income":6315,"Illiteracy":1.5,"Life.Exp":69.31,"Murder":11.3,"HS.Grad":66.7,"Frost":152,"Area":566432,"clusters":1,"_row":"Alaska"},{"Population":2212,"Income":4530,"Illiteracy":1.8,"Life.Exp":70.55,"Murder":7.8,"HS.Grad":58.1,"Frost":15,"Area":113417,"clusters":1,"_row":"Arizona"},{"Population":21198,"Income":5114,"Illiteracy":1.1,"Life.Exp":71.71,"Murder":10.3,"HS.Grad":62.6,"Frost":20,"Area":156361,"clusters":1,"_row":"California"},{"Population":8277,"Income":4815,"Illiteracy":1.3,"Life.Exp":70.66,"Murder":10.7,"HS.Grad":52.6,"Frost":11,"Area":54090,"clusters":1,"_row":"Florida"},{"Population":11197,"Income":5107,"Illiteracy":0.9,"Life.Exp":70.14,"Murder":10.3,"HS.Grad":52.6,"Frost":127,"Area":55748,"clusters":1,"_row":"Illinois"},{"Population":4122,"Income":5299,"Illiteracy":0.9,"Life.Exp":70.22,"Murder":8.5,"HS.Grad":52.3,"Frost":101,"Area":9891,"clusters":1,"_row":"Maryland"},{"Population":9111,"Income":4751,"Illiteracy":0.9,"Life.Exp":70.63,"Murder":11.1,"HS.Grad":52.8,"Frost":125,"Area":56817,"clusters":1,"_row":"Michigan"},{"Population":4767,"Income":4254,"Illiteracy":0.8,"Life.Exp":70.69,"Murder":9.3,"HS.Grad":48.8,"Frost":108,"Area":68995,"clusters":1,"_row":"Missouri"},{"Population":590,"Income":5149,"Illiteracy":0.5,"Life.Exp":69.03,"Murder":11.5,"HS.Grad":65.2,"Frost":188,"Area":109889,"clusters":1,"_row":"Nevada"},{"Population":7333,"Income":5237,"Illiteracy":1.1,"Life.Exp":70.93,"Murder":5.2,"HS.Grad":52.5,"Frost":115,"Area":7521,"clusters":1,"_row":"New Jersey"},{"Population":18076,"Income":4903,"Illiteracy":1.4,"Life.Exp":70.55,"Murder":10.9,"HS.Grad":52.7,"Frost":82,"Area":47831,"clusters":1,"_row":"New York"},{"Population":10735,"Income":4561,"Illiteracy":0.8,"Life.Exp":70.82,"Murder":7.4,"HS.Grad":53.2,"Frost":124,"Area":40975,"clusters":1,"_row":"Ohio"},{"Population":11860,"Income":4449,"Illiteracy":1,"Life.Exp":70.43,"Murder":6.1,"HS.Grad":50.2,"Frost":126,"Area":44966,"clusters":1,"_row":"Pennsylvania"},{"Population":12237,"Income":4188,"Illiteracy":2.2,"Life.Exp":70.9,"Murder":12.2,"HS.Grad":47.4,"Frost":35,"Area":262134,"clusters":1,"_row":"Texas"},{"Population":4981,"Income":4701,"Illiteracy":1.4,"Life.Exp":70.08,"Murder":9.5,"HS.Grad":47.8,"Frost":85,"Area":39780,"clusters":1,"_row":"Virginia"},{"Population":3615,"Income":3624,"Illiteracy":2.1,"Life.Exp":69.05,"Murder":15.1,"HS.Grad":41.3,"Frost":20,"Area":50708,"clusters":2,"_row":"Alabama"},{"Population":2110,"Income":3378,"Illiteracy":1.9,"Life.Exp":70.66,"Murder":10.1,"HS.Grad":39.9,"Frost":65,"Area":51945,"clusters":2,"_row":"Arkansas"},{"Population":4931,"Income":4091,"Illiteracy":2,"Life.Exp":68.54,"Murder":13.9,"HS.Grad":40.6,"Frost":60,"Area":58073,"clusters":2,"_row":"Georgia"},{"Population":3387,"Income":3712,"Illiteracy":1.6,"Life.Exp":70.1,"Murder":10.6,"HS.Grad":38.5,"Frost":95,"Area":39650,"clusters":2,"_row":"Kentucky"},{"Population":3806,"Income":3545,"Illiteracy":2.8,"Life.Exp":68.76,"Murder":13.2,"HS.Grad":42.2,"Frost":12,"Area":44930,"clusters":2,"_row":"Louisiana"},{"Population":2341,"Income":3098,"Illiteracy":2.4,"Life.Exp":68.09,"Murder":12.5,"HS.Grad":41,"Frost":50,"Area":47296,"clusters":2,"_row":"Mississippi"},{"Population":1144,"Income":3601,"Illiteracy":2.2,"Life.Exp":70.32,"Murder":9.7,"HS.Grad":55.2,"Frost":120,"Area":121412,"clusters":2,"_row":"New Mexico"},{"Population":5441,"Income":3875,"Illiteracy":1.8,"Life.Exp":69.21,"Murder":11.1,"HS.Grad":38.5,"Frost":80,"Area":48798,"clusters":2,"_row":"North Carolina"},{"Population":2816,"Income":3635,"Illiteracy":2.3,"Life.Exp":67.96,"Murder":11.6,"HS.Grad":37.8,"Frost":65,"Area":30225,"clusters":2,"_row":"South Carolina"},{"Population":4173,"Income":3821,"Illiteracy":1.7,"Life.Exp":70.11,"Murder":11,"HS.Grad":41.8,"Frost":70,"Area":41328,"clusters":2,"_row":"Tennessee"},{"Population":1799,"Income":3617,"Illiteracy":1.4,"Life.Exp":69.48,"Murder":6.7,"HS.Grad":41.6,"Frost":100,"Area":24070,"clusters":2,"_row":"West Virginia"},{"Population":2541,"Income":4884,"Illiteracy":0.7,"Life.Exp":72.06,"Murder":6.8,"HS.Grad":63.9,"Frost":166,"Area":103766,"clusters":3,"_row":"Colorado"},{"Population":3100,"Income":5348,"Illiteracy":1.1,"Life.Exp":72.48,"Murder":3.1,"HS.Grad":56,"Frost":139,"Area":4862,"clusters":3,"_row":"Connecticut"},{"Population":579,"Income":4809,"Illiteracy":0.9,"Life.Exp":70.06,"Murder":6.2,"HS.Grad":54.6,"Frost":103,"Area":1982,"clusters":3,"_row":"Delaware"},{"Population":868,"Income":4963,"Illiteracy":1.9,"Life.Exp":73.6,"Murder":6.2,"HS.Grad":61.9,"Frost":0,"Area":6425,"clusters":3,"_row":"Hawaii"},{"Population":813,"Income":4119,"Illiteracy":0.6,"Life.Exp":71.87,"Murder":5.3,"HS.Grad":59.5,"Frost":126,"Area":82677,"clusters":3,"_row":"Idaho"},{"Population":5313,"Income":4458,"Illiteracy":0.7,"Life.Exp":70.88,"Murder":7.1,"HS.Grad":52.9,"Frost":122,"Area":36097,"clusters":3,"_row":"Indiana"},{"Population":2861,"Income":4628,"Illiteracy":0.5,"Life.Exp":72.56,"Murder":2.3,"HS.Grad":59,"Frost":140,"Area":55941,"clusters":3,"_row":"Iowa"},{"Population":2280,"Income":4669,"Illiteracy":0.6,"Life.Exp":72.58,"Murder":4.5,"HS.Grad":59.9,"Frost":114,"Area":81787,"clusters":3,"_row":"Kansas"},{"Population":1058,"Income":3694,"Illiteracy":0.7,"Life.Exp":70.39,"Murder":2.7,"HS.Grad":54.7,"Frost":161,"Area":30920,"clusters":3,"_row":"Maine"},{"Population":5814,"Income":4755,"Illiteracy":1.1,"Life.Exp":71.83,"Murder":3.3,"HS.Grad":58.5,"Frost":103,"Area":7826,"clusters":3,"_row":"Massachusetts"},{"Population":3921,"Income":4675,"Illiteracy":0.6,"Life.Exp":72.96,"Murder":2.3,"HS.Grad":57.6,"Frost":160,"Area":79289,"clusters":3,"_row":"Minnesota"},{"Population":746,"Income":4347,"Illiteracy":0.6,"Life.Exp":70.56,"Murder":5,"HS.Grad":59.2,"Frost":155,"Area":145587,"clusters":3,"_row":"Montana"},{"Population":1544,"Income":4508,"Illiteracy":0.6,"Life.Exp":72.6,"Murder":2.9,"HS.Grad":59.3,"Frost":139,"Area":76483,"clusters":3,"_row":"Nebraska"},{"Population":812,"Income":4281,"Illiteracy":0.7,"Life.Exp":71.23,"Murder":3.3,"HS.Grad":57.6,"Frost":174,"Area":9027,"clusters":3,"_row":"New Hampshire"},{"Population":637,"Income":5087,"Illiteracy":0.8,"Life.Exp":72.78,"Murder":1.4,"HS.Grad":50.3,"Frost":186,"Area":69273,"clusters":3,"_row":"North Dakota"},{"Population":2715,"Income":3983,"Illiteracy":1.1,"Life.Exp":71.42,"Murder":6.4,"HS.Grad":51.6,"Frost":82,"Area":68782,"clusters":3,"_row":"Oklahoma"},{"Population":2284,"Income":4660,"Illiteracy":0.6,"Life.Exp":72.13,"Murder":4.2,"HS.Grad":60,"Frost":44,"Area":96184,"clusters":3,"_row":"Oregon"},{"Population":931,"Income":4558,"Illiteracy":1.3,"Life.Exp":71.9,"Murder":2.4,"HS.Grad":46.4,"Frost":127,"Area":1049,"clusters":3,"_row":"Rhode Island"},{"Population":681,"Income":4167,"Illiteracy":0.5,"Life.Exp":72.08,"Murder":1.7,"HS.Grad":53.3,"Frost":172,"Area":75955,"clusters":3,"_row":"South Dakota"},{"Population":1203,"Income":4022,"Illiteracy":0.6,"Life.Exp":72.9,"Murder":4.5,"HS.Grad":67.3,"Frost":137,"Area":82096,"clusters":3,"_row":"Utah"},{"Population":472,"Income":3907,"Illiteracy":0.6,"Life.Exp":71.64,"Murder":5.5,"HS.Grad":57.1,"Frost":168,"Area":9267,"clusters":3,"_row":"Vermont"},{"Population":3559,"Income":4864,"Illiteracy":0.6,"Life.Exp":71.72,"Murder":4.3,"HS.Grad":63.5,"Frost":32,"Area":66570,"clusters":3,"_row":"Washington"},{"Population":4589,"Income":4468,"Illiteracy":0.7,"Life.Exp":72.48,"Murder":3,"HS.Grad":54.5,"Frost":149,"Area":54464,"clusters":3,"_row":"Wisconsin"},{"Population":376,"Income":4566,"Illiteracy":0.6,"Life.Exp":70.29,"Murder":6.9,"HS.Grad":62.9,"Frost":173,"Area":97203,"clusters":3,"_row":"Wyoming"}],"avData":[{"clusters":1,"Population":8277,"Income":4815,"Illiteracy":1.1,"Life.Exp":70.55,"Murder":10.3,"HS.Grad":52.6,"Frost":108,"Area":55748},{"clusters":2,"Population":3387,"Income":3624,"Illiteracy":2,"Life.Exp":69.21,"Murder":11.1,"HS.Grad":41,"Frost":65,"Area":47296},{"clusters":3,"Population":1373.5,"Income":4562,"Illiteracy":0.65,"Life.Exp":71.98,"Murder":4.25,"HS.Grad":58.05,"Frost":139,"Area":67676}],"qData":[{"clusters":1,"dimensions":"Population","quartile":4444.5,"_row":"1.Population"},{"clusters":2,"dimensions":"Population","quartile":2225.5,"_row":"2.Population"},{"clusters":3,"dimensions":"Population","quartile":795.5,"_row":"3.Population"},{"clusters":1,"dimensions":"Income","quartile":4545.5,"_row":"1.Income"},{"clusters":2,"dimensions":"Income","quartile":3573,"_row":"2.Income"},{"clusters":3,"dimensions":"Income","quartile":4252.5,"_row":"3.Income"},{"clusters":1,"dimensions":"Illiteracy","quartile":0.9,"_row":"1.Illiteracy"},{"clusters":2,"dimensions":"Illiteracy","quartile":1.75,"_row":"2.Illiteracy"},{"clusters":3,"dimensions":"Illiteracy","quartile":0.6,"_row":"3.Illiteracy"},{"clusters":1,"dimensions":"Life.Exp","quartile":70.18,"_row":"1.Life.Exp"},{"clusters":2,"dimensions":"Life.Exp","quartile":68.65,"_row":"2.Life.Exp"},{"clusters":3,"dimensions":"Life.Exp","quartile":71.3725,"_row":"3.Life.Exp"},{"clusters":1,"dimensions":"Murder","quartile":8.15,"_row":"1.Murder"},{"clusters":2,"dimensions":"Murder","quartile":10.35,"_row":"2.Murder"},{"clusters":3,"dimensions":"Murder","quartile":2.85,"_row":"3.Murder"},{"clusters":1,"dimensions":"HS.Grad","quartile":51.25,"_row":"1.HS.Grad"},{"clusters":2,"dimensions":"HS.Grad","quartile":39.2,"_row":"2.HS.Grad"},{"clusters":3,"dimensions":"HS.Grad","quartile":54.575,"_row":"3.HS.Grad"},{"clusters":1,"dimensions":"Frost","quartile":58.5,"_row":"1.Frost"},{"clusters":2,"dimensions":"Frost","quartile":55,"_row":"2.Frost"},{"clusters":3,"dimensions":"Frost","quartile":111.25,"_row":"3.Frost"},{"clusters":1,"dimensions":"Area","quartile":42970.5,"_row":"1.Area"},{"clusters":2,"dimensions":"Area","quartile":40489,"_row":"2.Area"},{"clusters":3,"dimensions":"Area","quartile":9207,"_row":"3.Area"},{"clusters":1,"dimensions":"Population","quartile":11528.5,"_row":"1.Population1"},{"clusters":2,"dimensions":"Population","quartile":3989.5,"_row":"2.Population1"},{"clusters":3,"dimensions":"Population","quartile":2920.75,"_row":"3.Population1"},{"clusters":1,"dimensions":"Income","quartile":5131.5,"_row":"1.Income1"},{"clusters":2,"dimensions":"Income","quartile":3766.5,"_row":"2.Income1"},{"clusters":3,"dimensions":"Income","quartile":4768.5,"_row":"3.Income1"},{"clusters":1,"dimensions":"Illiteracy","quartile":1.4,"_row":"1.Illiteracy1"},{"clusters":2,"dimensions":"Illiteracy","quartile":2.25,"_row":"2.Illiteracy1"},{"clusters":3,"dimensions":"Illiteracy","quartile":0.825,"_row":"3.Illiteracy1"},{"clusters":1,"dimensions":"Life.Exp","quartile":70.755,"_row":"1.Life.Exp1"},{"clusters":2,"dimensions":"Life.Exp","quartile":70.105,"_row":"2.Life.Exp1"},{"clusters":3,"dimensions":"Life.Exp","quartile":72.565,"_row":"3.Life.Exp1"},{"clusters":1,"dimensions":"Murder","quartile":11,"_row":"1.Murder1"},{"clusters":2,"dimensions":"Murder","quartile":12.85,"_row":"2.Murder1"},{"clusters":3,"dimensions":"Murder","quartile":5.675,"_row":"3.Murder1"},{"clusters":1,"dimensions":"HS.Grad","quartile":55.65,"_row":"1.HS.Grad1"},{"clusters":2,"dimensions":"HS.Grad","quartile":41.7,"_row":"2.HS.Grad1"},{"clusters":3,"dimensions":"HS.Grad","quartile":59.925,"_row":"3.HS.Grad1"},{"clusters":1,"dimensions":"Frost","quartile":125.5,"_row":"1.Frost1"},{"clusters":2,"dimensions":"Frost","quartile":87.5,"_row":"2.Frost1"},{"clusters":3,"dimensions":"Frost","quartile":162.25,"_row":"3.Frost1"},{"clusters":1,"dimensions":"Area","quartile":111653,"_row":"1.Area1"},{"clusters":2,"dimensions":"Area","quartile":51326.5,"_row":"2.Area1"},{"clusters":3,"dimensions":"Area","quartile":81864.25,"_row":"3.Area1"}],"qsData":[{"clusters":1,"dimensions":"Population","q1":4444.5,"q3":11528.5,"_row":"1.Population"},{"clusters":2,"dimensions":"Population","q1":2225.5,"q3":3989.5,"_row":"2.Population"},{"clusters":3,"dimensions":"Population","q1":795.5,"q3":2920.75,"_row":"3.Population"},{"clusters":1,"dimensions":"Income","q1":4545.5,"q3":5131.5,"_row":"1.Income"},{"clusters":2,"dimensions":"Income","q1":3573,"q3":3766.5,"_row":"2.Income"},{"clusters":3,"dimensions":"Income","q1":4252.5,"q3":4768.5,"_row":"3.Income"},{"clusters":1,"dimensions":"Illiteracy","q1":0.9,"q3":1.4,"_row":"1.Illiteracy"},{"clusters":2,"dimensions":"Illiteracy","q1":1.75,"q3":2.25,"_row":"2.Illiteracy"},{"clusters":3,"dimensions":"Illiteracy","q1":0.6,"q3":0.825,"_row":"3.Illiteracy"},{"clusters":1,"dimensions":"Life.Exp","q1":70.18,"q3":70.755,"_row":"1.Life.Exp"},{"clusters":2,"dimensions":"Life.Exp","q1":68.65,"q3":70.105,"_row":"2.Life.Exp"},{"clusters":3,"dimensions":"Life.Exp","q1":71.3725,"q3":72.565,"_row":"3.Life.Exp"},{"clusters":1,"dimensions":"Murder","q1":8.15,"q3":11,"_row":"1.Murder"},{"clusters":2,"dimensions":"Murder","q1":10.35,"q3":12.85,"_row":"2.Murder"},{"clusters":3,"dimensions":"Murder","q1":2.85,"q3":5.675,"_row":"3.Murder"},{"clusters":1,"dimensions":"HS.Grad","q1":51.25,"q3":55.65,"_row":"1.HS.Grad"},{"clusters":2,"dimensions":"HS.Grad","q1":39.2,"q3":41.7,"_row":"2.HS.Grad"},{"clusters":3,"dimensions":"HS.Grad","q1":54.575,"q3":59.925,"_row":"3.HS.Grad"},{"clusters":1,"dimensions":"Frost","q1":58.5,"q3":125.5,"_row":"1.Frost"},{"clusters":2,"dimensions":"Frost","q1":55,"q3":87.5,"_row":"2.Frost"},{"clusters":3,"dimensions":"Frost","q1":111.25,"q3":162.25,"_row":"3.Frost"},{"clusters":1,"dimensions":"Area","q1":42970.5,"q3":111653,"_row":"1.Area"},{"clusters":2,"dimensions":"Area","q1":40489,"q3":51326.5,"_row":"2.Area"},{"clusters":3,"dimensions":"Area","q1":9207,"q3":81864.25,"_row":"3.Area"}],"colorScheme":["schemeCategory10"],"labelSizes":{},"lineSize":null},"evals":[],"jsHooks":[]}</script><p>Some things to note:</p>
 <ul>
 <li>Each axis is a column in the original data with its natural scale</li>
 <li>Hovering over a line displays its label</li>
